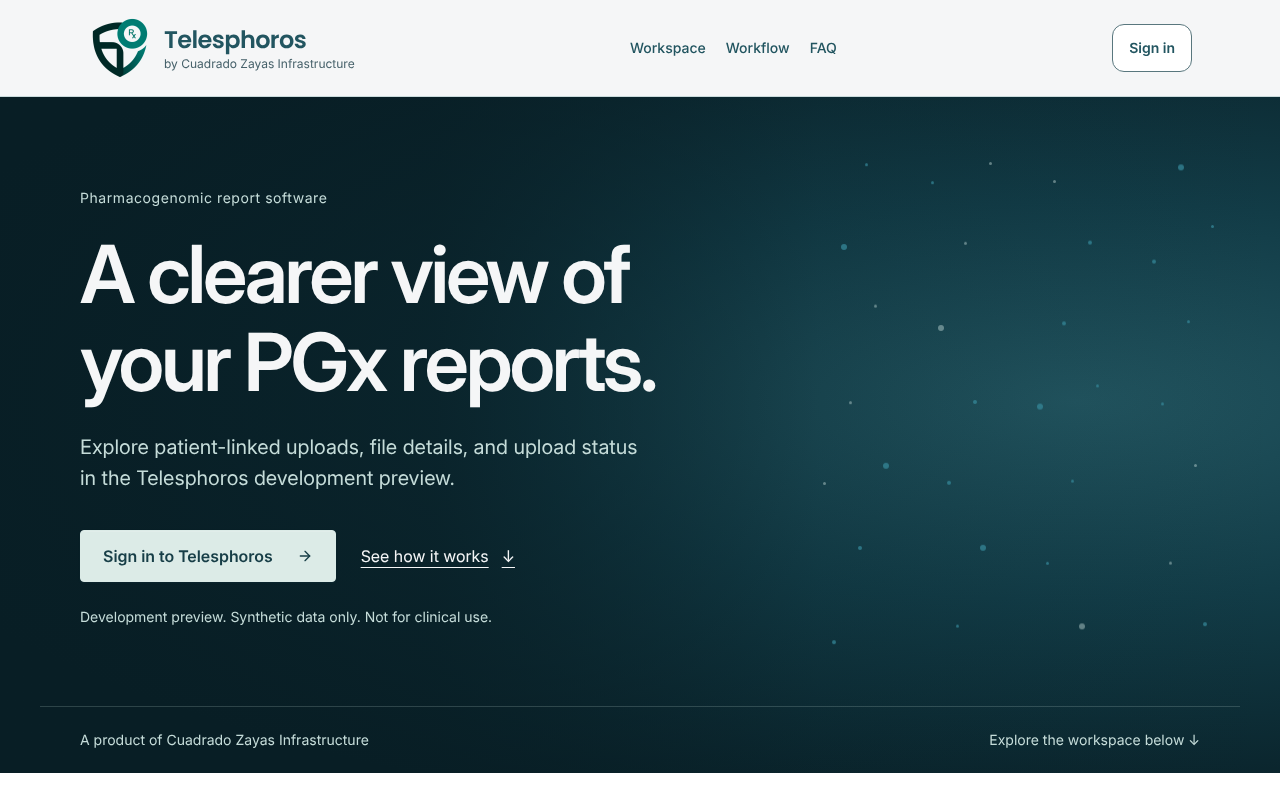
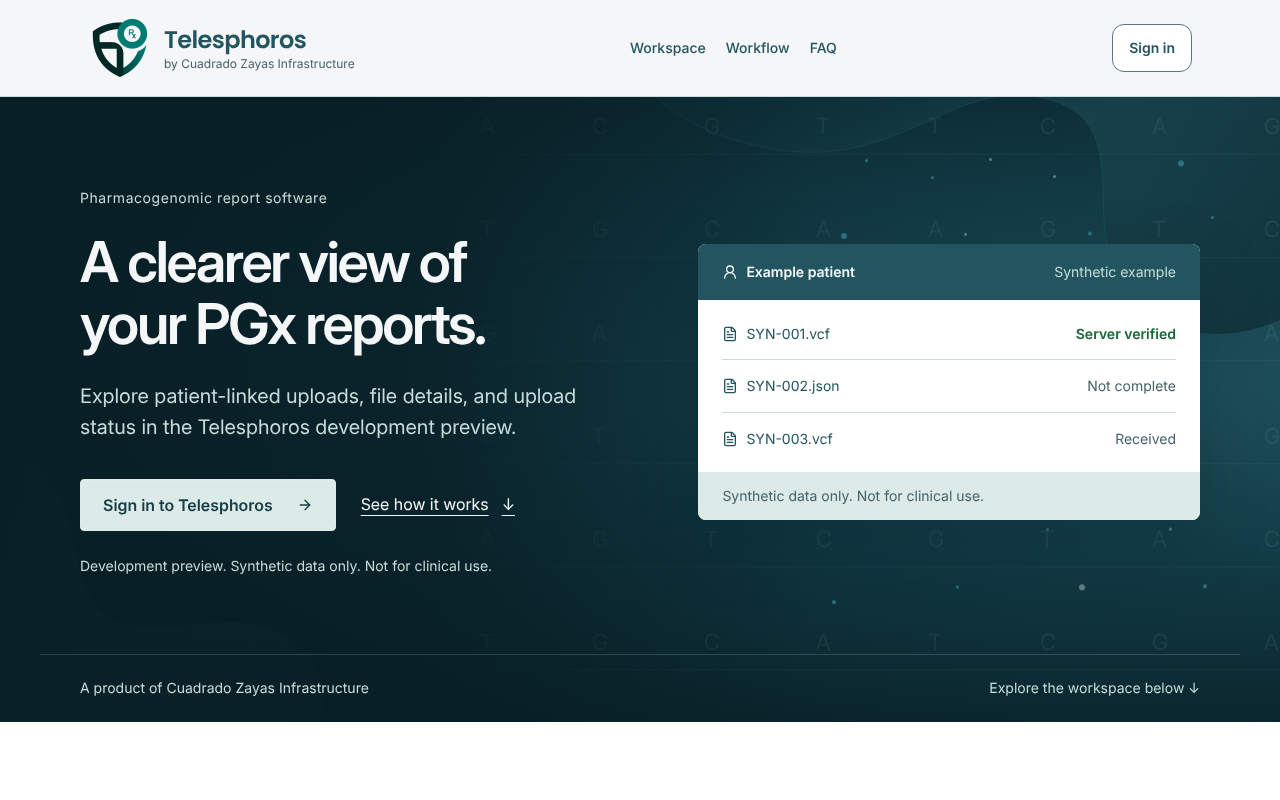
Landing S2: hero composition with a still synthetic report card
Copy sits beside a code-drawn, non-interactive report card (fictional
records and wording reused from the capability fragments) over a
token-coloured backdrop of folds and an A/C/G/T sequence ported from the
public site's Product first hero. Mobile and tablet stack the card under
the copy; forced colours hides the backdrop. Particles kept, copy and
palette unchanged, one type token added.

Claude-Session: https://claude.ai/code/session_01TWDtrdAEweJqqqBCiYuNke

Changed region(s): [[0.0625, 0.2812, 0.9375, 0.7812], [0.0, 0.8438, 1.0, 0.9688], [0.8438, 0.3125, 0.9062, 0.3438]]

diff --git a/apps/frontend/src/styles/landing.css b/apps/frontend/src/styles/landing.css
@@ -493,3 +493,111 @@
   .product-landing .workflow-next:hover > svg,
   .product-landing .workflow-compare:hover > svg { transform: none; }
 }
+
+/* Hero composition: copy beside a still synthetic report card, over a code-drawn backdrop (plan: docs/design/plans/landing-alignment.md, S2). */
+.product-landing .landing-backdrop {
+  position: absolute;
+  inset: 0;
+  z-index: -1;
+  overflow: clip;
+  pointer-events: none;
+}
+.product-landing .landing-backdrop-folds {
+  position: absolute;
+  inset: 0;
+  width: 100%;
+  height: 100%;
+  opacity: .5;
+}
+.product-landing .landing-backdrop-sequence {
+  position: absolute;
+  top: -2rem;
+  right: -4%;
+  width: min(56rem, 78%);
+  height: auto;
+  opacity: .08;
+}
+.product-landing .landing-backdrop-sequence text {
+  font-family: inherit;
+  font-size: 1.25rem;
+  fill: var(--landing-soft-text);
+}
+.product-landing .landing-backdrop-sequence path {
+  fill: none;
+  stroke: var(--landing-soft-text);
+  stroke-width: .65;
+}
+.product-landing .landing-fold-stop-dark { stop-color: var(--landing-night); }
+.product-landing .landing-fold-stop-mid { stop-color: var(--primary); }
+.product-landing .landing-fold-stop-light { stop-color: var(--landing-depth); }
+.product-landing .landing-fold-edge {
+  fill: none;
+  stroke: var(--brand-accent);
+  stroke-width: 1;
+  opacity: .45;
+}
+.product-landing .landing-hero-content {
+  display: grid;
+  grid-template-columns: minmax(0, 1.05fr) minmax(0, .95fr);
+  align-items: center;
+  gap: clamp(2rem, 5vw, 4.5rem);
+}
+.product-landing .landing-hero-text { min-width: 0; }
+.product-landing .landing-hero h1 { font-size: var(--landing-fs-hero); }
+.product-landing .landing-hero-visual { min-width: 0; }
+.product-landing .landing-report-card {
+  background: var(--panel);
+  color: var(--foreground);
+  border-radius: var(--radius-2);
+  box-shadow: var(--landing-preview-shadow);
+  overflow: hidden;
+  font-size: var(--landing-fs-small);
+  line-height: 1.4;
+}
+.product-landing .landing-report-head {
+  display: flex;
+  align-items: center;
+  justify-content: space-between;
+  gap: 1rem;
+  padding: 1.125rem 1.5rem;
+  background: var(--primary);
+  color: var(--primary-foreground);
+}
+.product-landing .landing-report-head > span:first-child { display: inline-flex; align-items: center; gap: .5rem; font-weight: 600; }
+.product-landing .landing-report-head > span:last-child { color: var(--landing-soft-text); }
+.product-landing .landing-report-card svg { width: 1rem; height: 1rem; flex: none; }
+.product-landing .landing-report-body { display: grid; padding: .5rem 1.5rem; }
+.product-landing .landing-report-row {
+  display: flex;
+  align-items: center;
+  justify-content: space-between;
+  gap: 1rem;
+  padding-block: 1rem;
+  border-bottom: 1px solid var(--divider);
+}
+.product-landing .landing-report-row:last-child { border-bottom: 0; }
+.product-landing .landing-report-row > span:first-child { display: inline-flex; align-items: center; gap: .5rem; min-width: 0; overflow-wrap: anywhere; }
+.product-landing .landing-report-row > span:last-child { color: var(--muted-foreground); text-align: right; }
+.product-landing .landing-report-row > span.landing-report-verified { color: var(--success); font-weight: 600; }
+.product-landing .landing-report-foot {
+  margin: 0;
+  padding: .875rem 1.5rem;
+  background: var(--muted);
+  color: var(--muted-foreground);
+}
+@media(max-width:62.5rem) {
+  .product-landing .landing-hero-content { grid-template-columns: minmax(0, 1fr); }
+  .product-landing .landing-hero h1 { font-size: var(--landing-fs-display); }
+  .product-landing .landing-hero-visual { max-width: 32rem; }
+}
+@media(max-width:45.0rem) {
+  .product-landing .landing-backdrop-folds { width: 140%; left: -20%; opacity: .34; }
+  .product-landing .landing-backdrop-sequence { width: 140%; right: -45%; top: 12rem; opacity: .06; }
+  .product-landing .landing-report-head, .product-landing .landing-report-foot { padding-inline: 1rem; }
+  .product-landing .landing-report-body { padding-inline: 1rem; }
+}
+@media(forced-colors:active) {
+  .product-landing .landing-backdrop { display: none; }
+  .product-landing .landing-report-card { border: 1px solid CanvasText; }
+  .product-landing .landing-report-head { border-bottom: 1px solid CanvasText; }
+}

diff --git a/apps/frontend/src/components/landing/ProductLanding.tsx b/apps/frontend/src/components/landing/ProductLanding.tsx
@@ -6,6 +6,8 @@ import { LandingParticles } from './LandingParticles';
 import { PatientLinkFragment } from './PatientLinkFragment';
 import { FileStatusFragment } from './FileStatusFragment';
 import { AssistantFragment } from './AssistantFragment';
+import { HeroBackdrop } from './HeroBackdrop';
+import { HeroReportCard } from './HeroReportCard';
 import { useLandingMotion } from '@/hooks/useLandingMotion';
 import '@/styles/landing.css';
 import '@/styles/landing-motion.css';
@@ -15,14 +17,18 @@ export function ProductLanding({ canUpload, signedIn }: { canUpload: boolean; si
   useLandingMotion(root);
   return <div ref={root} className="product-landing">
   <section className="landing-hero" aria-labelledby="home-title">
+    <HeroBackdrop />
     <div className="landing-hero-shade" aria-hidden="true"></div>
     <LandingParticles placement="hero" />
     <div className="landing-wrap landing-hero-content">
-      <p className="landing-eyebrow" data-reveal="1">Pharmacogenomic report software</p>
-      <h1 id="home-title" className="landing-headline"><span className="landing-line"><span>A clearer view of</span></span>{' '}<span className="landing-line"><span>your PGx reports.</span></span></h1>
-      <p className="landing-hero-copy" data-reveal="2">Explore patient-linked uploads, file details, and upload status in the Telesphoros development preview.</p>
-      <LandingActions canUpload={canUpload} signedIn={signedIn} reveal={3} />
-      <p className="landing-preview-note" data-reveal="4">Development preview. Synthetic data only.<br className="landing-mobile-break" /> Not for clinical use.</p>
+      <div className="landing-hero-text">
+        <p className="landing-eyebrow" data-reveal="1">Pharmacogenomic report software</p>
+        <h1 id="home-title" className="landing-headline"><span className="landing-line"><span>A clearer view of</span></span>{' '}<span className="landing-line"><span>your PGx reports.</span></span></h1>
+        <p className="landing-hero-copy" data-reveal="2">Explore patient-linked uploads, file details, and upload status in the Telesphoros development preview.</p>
+        <LandingActions canUpload={canUpload} signedIn={signedIn} reveal={3} />
+        <p className="landing-preview-note" data-reveal="4">Development preview. Synthetic data only.<br className="landing-mobile-break" /> Not for clinical use.</p>
+      </div>
+      <div className="landing-hero-visual" data-reveal="2"><HeroReportCard /></div>
     </div>
     <div className="landing-hero-bottom landing-wrap"><span>A product of Cuadrado Zayas Infrastructure</span><span className="landing-hero-index" aria-hidden="true">Explore the workspace below <span className="landing-cue">↓</span></span></div>
   </section>

diff --git a/apps/frontend/src/components/landing/HeroBackdrop.tsx b/apps/frontend/src/components/landing/HeroBackdrop.tsx
@@ -1,0 +1,36 @@
+const sequences = ['ACGTTCAG', 'TGCAAGTC', 'GATCTGCA', 'CTAGACTG', 'AGTCGTAC', 'TGCATCGA'];
+
+/**
+ * Code-drawn hero texture: two soft folds and an A/C/G/T sequence, ported from the public Telesphoros site's
+ * "Product first" hero. Original shapes only (no raster artwork), hidden from assistive technology, never
+ * interactive and static. Every colour comes from a stylesheet token (landing.css), none from this file.
+ */
+export function HeroBackdrop() {
+  return <div className="landing-backdrop" aria-hidden="true">
+    <svg className="landing-backdrop-folds" viewBox="0 0 1440 800" focusable="false" preserveAspectRatio="xMidYMid slice">
+      <defs>
+        <linearGradient id="landing-fold-light" x1="0%" y1="0%" x2="85%" y2="100%">
+          <stop className="landing-fold-stop-dark" offset="0" />
+          <stop className="landing-fold-stop-light" offset="0.44" />
+          <stop className="landing-fold-stop-mid" offset="0.59" />
+          <stop className="landing-fold-stop-dark" offset="1" />
+        </linearGradient>
+        <linearGradient id="landing-fold-dark" x1="0%" y1="0%" x2="100%" y2="100%">
+          <stop className="landing-fold-stop-dark" offset="0" />
+          <stop className="landing-fold-stop-mid" offset="0.5" />
+          <stop className="landing-fold-stop-dark" offset="1" />
+        </linearGradient>
+      </defs>
+      <path fill="url(#landing-fold-light)" d="M832-180C632-128 654 58 849 103C1015 142 1066 20 1182 52C1296 84 1185 238 1305 300C1419 359 1574 236 1572 116L1545-142Z" />
+      <path className="landing-fold-edge" d="M832-180C632-128 654 58 849 103C1015 142 1066 20 1182 52C1296 84 1185 238 1305 300" />
+      <path fill="url(#landing-fold-dark)" d="M-252 583C-53 346 60 416 86 566C114 725 266 577 348 680C422 774 231 911 90 886L-220 827Z" />
+      <path className="landing-fold-edge" d="M-252 583C-53 346 60 416 86 566C114 725 266 577 348 680" />
+    </svg>
+    <svg className="landing-backdrop-sequence" viewBox="0 0 800 650" focusable="false">
+      {sequences.map((row, index) => <g key={row}>
+        <path d={`M24 ${80 + index * 92}H780`} />
+        {row.split('').map((base, column) => <text key={column} x={40 + column * 100} y={62 + index * 92}>{base}</text>)}
+      </g>)}
+    </svg>
+  </div>;
+}

diff --git a/apps/frontend/src/components/landing/HeroComposition.test.tsx b/apps/frontend/src/components/landing/HeroComposition.test.tsx
@@ -1,0 +1,27 @@
+import { render } from '@testing-library/react';
+import { describe, expect, it } from 'vitest';
+import { HeroBackdrop } from './HeroBackdrop';
+import { HeroReportCard } from './HeroReportCard';
+
+describe('hero composition', () => {
+  it('draws the report card as still decoration: hidden from assistive technology and nothing to operate', () => {
+    const { container } = render(<HeroReportCard />);
+    const card = container.querySelector('.landing-report-card')!;
+    expect(card).toHaveAttribute('aria-hidden', 'true');
+    expect(card.querySelectorAll('a, button, input, select, textarea, [tabindex]')).toHaveLength(0);
+  });
+
+  it('uses the same fictional records and status wording as the capability fragments', () => {
+    const { container } = render(<HeroReportCard />);
+    const text = container.textContent ?? '';
+    for (const expected of ['Example patient', 'SYN-001.vcf', 'Server verified', 'SYN-002.json', 'Not complete', 'SYN-003.vcf', 'Received', 'Synthetic data only. Not for clinical use.']) expect(text).toContain(expected);
+    expect(container.querySelectorAll('.landing-report-verified')).toHaveLength(1);
+  });
+
+  it('draws the backdrop from classes only: hidden, no images, no inline colours or styles', () => {
+    const { container } = render(<HeroBackdrop />);
+    expect(container.querySelector('.landing-backdrop')).toHaveAttribute('aria-hidden', 'true');
+    expect(container.querySelectorAll('img, image, [style], [fill]:not([fill^="url("]), [stroke], [stop-color]')).toHaveLength(0);
+    expect(container.querySelectorAll('.landing-backdrop-sequence text')).toHaveLength(48);
+  });
+});

diff --git a/apps/frontend/src/components/landing/HeroReportCard.tsx b/apps/frontend/src/components/landing/HeroReportCard.tsx
@@ -1,0 +1,21 @@
+import { FileText, UserRound } from 'lucide-react';
+import { statusRows } from './FileStatusFragment';
+
+/**
+ * The hero's main visual: a still, code-drawn synthetic report card, in the spirit of the public site's working
+ * example but with nothing to operate. It reuses the fictional records and wording of the capability fragments,
+ * makes no claim the page does not already make, and is hidden from assistive technology (the hero text and the
+ * workflow below say the same thing, and are interactive where it matters).
+ */
+export function HeroReportCard() {
+  return <div className="landing-report-card" aria-hidden="true">
+    <div className="landing-report-head"><span><UserRound />Example patient</span><span>Synthetic example</span></div>
+    <div className="landing-report-body">
+      {statusRows.map(row => <span key={row.name} className="landing-report-row">
+        <span><FileText />{row.name}</span>
+        <span className={row.verified ? 'landing-report-verified' : undefined}>{row.status}</span>
+      </span>)}
+    </div>
+    <p className="landing-report-foot">Synthetic data only. Not for clinical use.</p>
+  </div>;
+}

diff --git a/apps/frontend/e2e/landing.spec.ts b/apps/frontend/e2e/landing.spec.ts
@@ -111,7 +111,10 @@ test('landing motion is decorative, finite and leaves a complete still page for 
   // Drawn elements are decoration only.
   expect(await page.locator('.landing-particles--hero .landing-particle').count()).toBeGreaterThan(20);
   await expect(page.locator('.landing-fragment')).toHaveCount(3);
-  for (const element of await page.locator('.landing-particles, .landing-fragment').all()) await expect(element).toHaveAttribute('aria-hidden', 'true');
+  // The hero's report card and backdrop are still, code-drawn decoration with nothing to operate.
+  await expect(page.locator('.landing-hero .landing-report-card')).toHaveCount(1);
+  await expect(page.locator('.landing-hero .landing-report-card :is(a, button, input, [tabindex])')).toHaveCount(0);
+  for (const element of await page.locator('.landing-particles, .landing-fragment, .landing-backdrop, .landing-report-card').all()) await expect(element).toHaveAttribute('aria-hidden', 'true');
   // The approved artwork never moves.
   await expect(page.locator('.mascot-welcome-image')).toHaveCSS('animation-name', 'none');
   // Nothing repeats forever, and the time-based motion ends.

diff --git a/apps/frontend/src/styles/tokens.css b/apps/frontend/src/styles/tokens.css
@@ -110,6 +110,7 @@
 
   /* Landing type scale: five steps, fluid, used for every size on the landing route. */
   --landing-fs-display: clamp(2.25rem, 7.2vw, 5rem);
+  --landing-fs-hero: clamp(2.25rem, 4.4vw, 4rem); /* hero headline beside the report card */
   --landing-fs-heading: clamp(1.75rem, 3.4vw, 2.5rem);
   --landing-fs-lead: 1.25rem;
   --landing-fs-body: 1rem;

diff --git a/apps/frontend/src/components/landing/FileStatusFragment.tsx b/apps/frontend/src/components/landing/FileStatusFragment.tsx
@@ -1,6 +1,6 @@
 import { FileText } from 'lucide-react';
 
-const statusRows = [
+export const statusRows = [
   { name: 'SYN-001.vcf', status: 'Server verified', verified: true },
   { name: 'SYN-002.json', status: 'Not complete', verified: false },
   { name: 'SYN-003.vcf', status: 'Received', verified: false },

diff --git a/docs/STATUS.md b/docs/STATUS.md
@@ -23,6 +23,10 @@ The founder approved compiler/dependency cache improvements while preserving all
 
 Main `11f9157` contains the approved `b668f02` F06 content and all **19 promoted recovery probes**. Independent page/session retirement, verified caller/tenant binding, the original one-hour deadline, roles-only `/me`, separate recovery capability and genuine-404 memory-only compatibility remain unchanged by F07. See the [F06 verification record](verification/f06-upload-recovery.md). Earlier local-only wording below describes historical captures; cached JavaScript still needs refresh to obtain these safeguards. Merged code is not hosted acceptance.
 
+## Landing S2: hero composition (draft PR, 2026-10-16)
+
+Second slice of the [landing alignment plan](design/plans/landing-alignment.md), approved by the founder on 2026-10-16 with the plan's defaults. The hero is now copy on the left and a still, code-drawn synthetic report card on the right (`HeroReportCard`), over a code-drawn backdrop of two soft folds and an A/C/G/T sequence (`HeroBackdrop`) ported from the public site's Product first hero. The card reuses the fictional records and status wording of the capability fragments; it is `aria-hidden`, has nothing to operate and adds no copy beyond a header and the existing "Synthetic data only. Not for clinical use." line. Colours come from tokens only (no literal colours or inline styles, so `check:brand` passes unchanged), nothing in the backdrop moves, and forced colours hides it. Mobile and tablet stack the card under the copy. The particles are kept: in the before and after screenshots they read as a quiet depth layer around the card, not a duplicate of the backdrop. One token added (`--landing-fs-hero`); copy, palette, fonts, artwork and `branding-policy.json` are unchanged. Local checks: typecheck, lint, `check:brand`, 359 unit tests (3 new), the landing and foundation browser specs (30 cases, axe included) and the production build. The full browser suite relies on CI. Slices S3 (EN/ES parity) and S4 (token names) are not started. No deployment or merge.
+
 ## Landing S1: the watermarked DNA image is retired (draft PR, 2026-10-16)
 
 First slice of the [landing alignment plan](design/plans/landing-alignment.md), approved by the founder on 2026-10-16. `particle-dna-reference.png` carried a watermark and its publication rights were never established; `telesphoros-site` and `cuadradozayas-site` had already retired the same bytes (SHA-256 `2e4c1dcf…`). The image, its provenance note, the hero element, its CSS and the two unused tokens are removed; the policy pin is replaced by a `retiredAssets` list (policy version 2); and `check:brand` now hashes every shipped file of any type and rejects retired artwork under any filename (3 new mutation tests, 27 in all, plus a real negative run with a renamed copy). No replacement art was added; slice S2 decides the hero. The image remains in git history (not purged). Dashboard, other pages, palette and the two site repositories are unchanged. No deployment.

diff --git a/docs/design/plans/landing-alignment.md b/docs/design/plans/landing-alignment.md
@@ -40,7 +40,7 @@ So the product landing is the one surface still carrying an image the other two 
 ## Proposed slices (each its own plan and draft PR; none starts without a go)
 
 1. **S1: retire the watermarked image from the landing. Approved 2026-10-16 and built: the image, its provenance note, the hero element, its CSS and tokens were removed, the policy pin was replaced by a `retiredAssets` list, and the checker now hashes every shipped file. No replacement art was added; S2 decides the hero.** Original wording: Remove it from the hero and from the required-asset list in the policy, and add it to a retired list the way the site repositories do. Replace it with the site's original `genomic-bands.svg` (SHA-256 `b7f48ad8…`, already pinned in both site repositories) or another original asset. Needs the founder's approval first.
-2. **S2: hero composition.** Bring the hero to the dark stage with the report preview as the main visual, using the site's copy and structure as the reference.
+2. **S2: hero composition. Approved 2026-10-16 (plan defaults) and built: a still synthetic report card beside the copy, over a token-coloured code-drawn backdrop ported from the site; particles kept; copy unchanged. Not interactive: the interactive walkthrough stays below the hero.** Original wording: Bring the hero to the dark stage with the report preview as the main visual, using the site's copy and structure as the reference.
 3. **S3: EN/ES parity.** Give the landing the same two languages, sourcing copy from one place rather than duplicating it. The existing i18n setup in this repository has not been read; that is the first thing to check.
 4. **S4: token names.** Add the site's names as aliases of the existing tokens, or the reverse, so one colour change reaches both. Optional and lowest priority.
 
